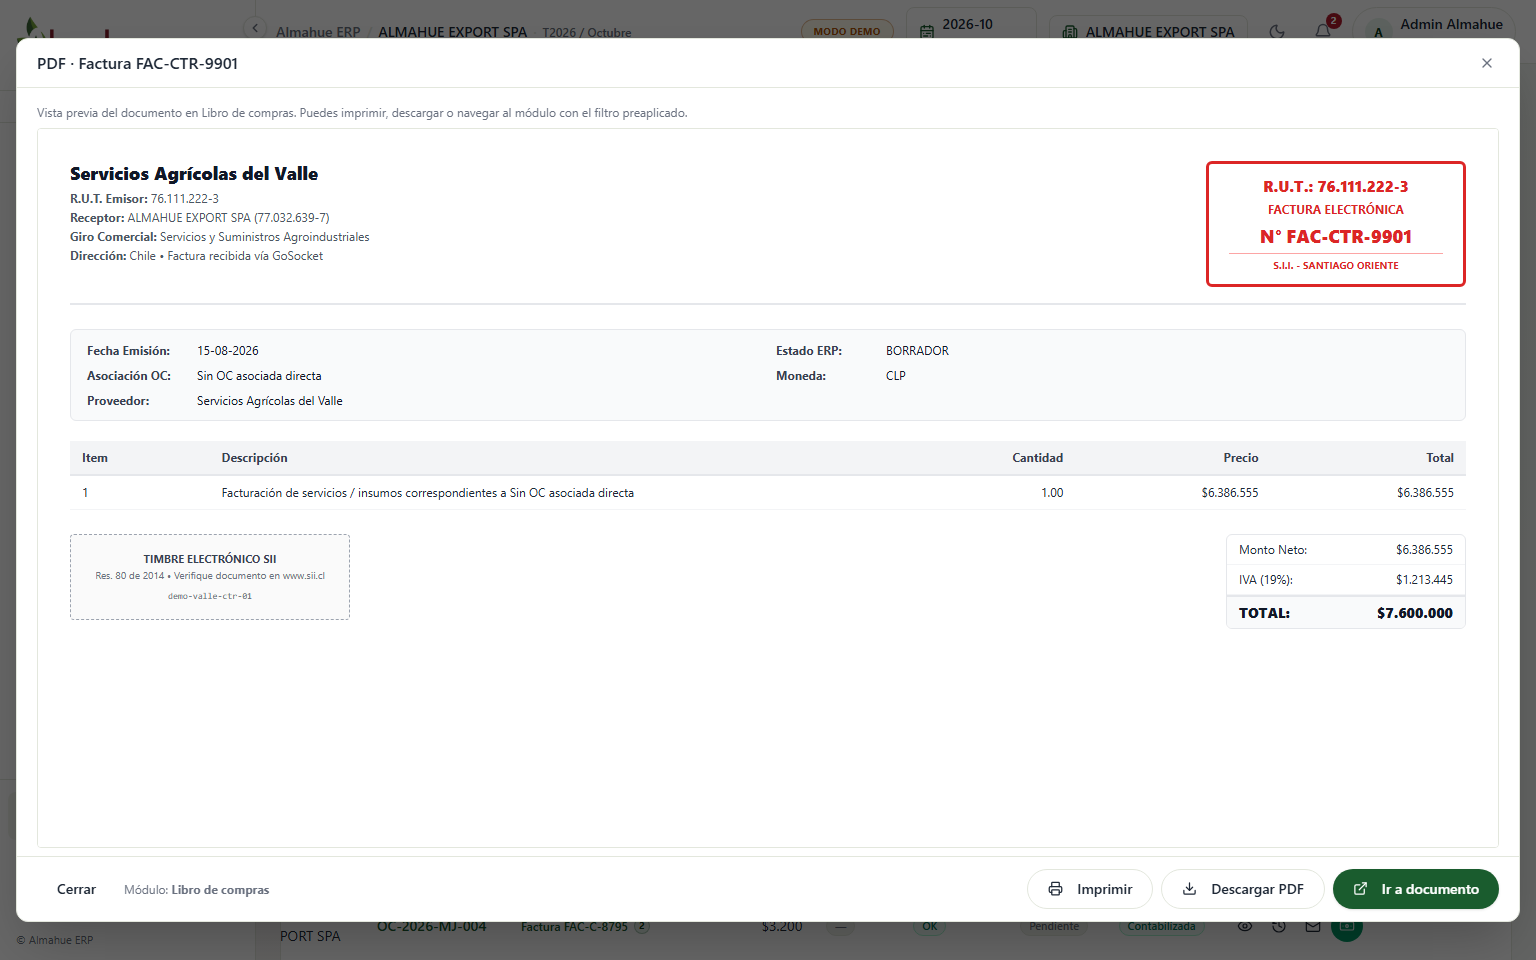
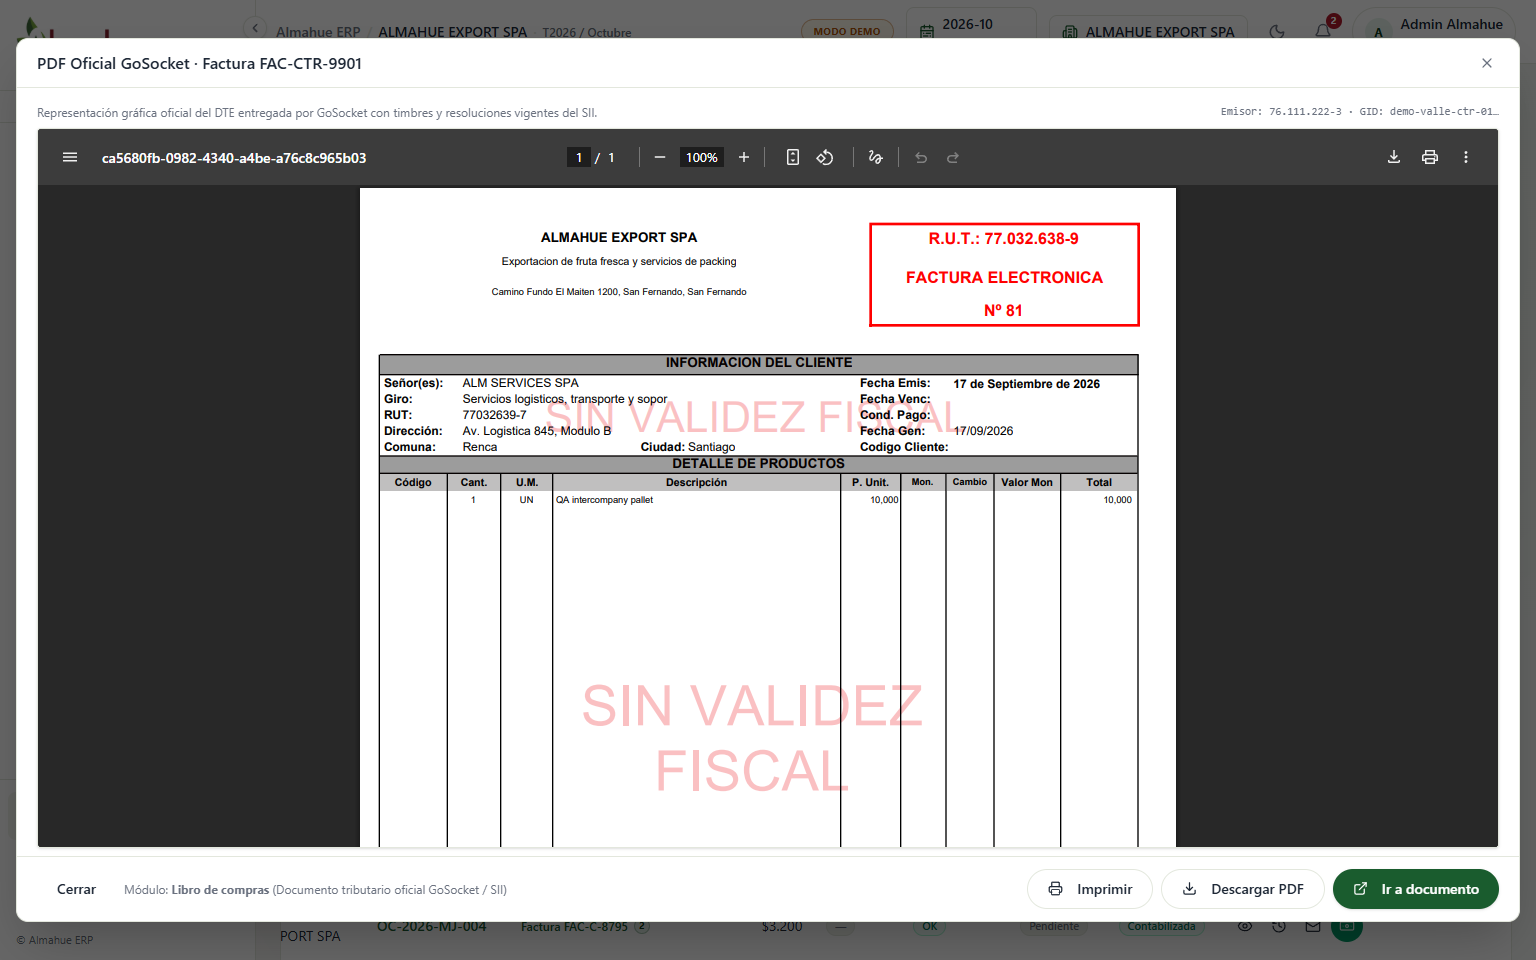
docs(recorrido): update steps 11 and 12 with authentic GoSocket PDF and accurate bimoneda aging pins

diff --git a/docs/sesiones/compras-mejoras-modulo2-2026-10-30/recorrido.html b/docs/sesiones/compras-mejoras-modulo2-2026-10-30/recorrido.html
@@ -619,12 +619,12 @@
         mod: "Compras / MJ",
         modCode: "compras",
         cls: "compras",
-        menu: "Libro de compras · Bimoneda",
+        menu: "Tesorería · Nómina Semanal y Aging Bimoneda",
         titulo: "Facturas Bimoneda y Desglose de Aging con IVA al día 20 (F29) (Punto 4 MJ)",
         img: "img/step-e-3-compras-libro-bimoneda.png",
         pins: [
-          { x: 55, y: 38, label: "Facturas bimoneda: desglose de compromisos comerciales y fiscales" },
-          { x: 75, y: 38, label: "Aging impositivo: vencimiento de IVA al día 20 del mes siguiente (F29)" }
+          { x: 26, y: 80, label: "Facturas bimoneda: desglose de compromisos comerciales y fiscales (Neto en USD)" },
+          { x: 58, y: 86, label: "Aging impositivo: vencimiento de IVA al día 20 del mes siguiente (F29)" }
         ],
         regla: "Las facturas en moneda extranjera (USD) desglosan su Neto en USD y su IVA en pesos chilenos (CLP). El Neto vence según la condición comercial pactada y el IVA vence invariablemente el día 20 del mes siguiente para la declaración y pago del F29.",
         origen: "Correo María Jesús (29/10/2026, Punto 4) · Regla impositiva chilena",
@@ -640,7 +640,7 @@
         titulo: "Barra de Porcentaje de Cobertura en Facturas con Proformas e Insumos",
         img: "img/step-e-6-compras-libro-cobertura.png",
         pins: [
-          { x: 42, y: 76, label: "Barra porcentual de cobertura de facturas con proformas e insumos (63% cubierto)" }
+          { x: 52, y: 78, label: "Barra porcentual de cobertura de facturas con proformas e insumos (63% cubierto)" }
         ],
         regla: "Muestra una barra de progreso porcentual en la lista de facturas del Libro de Compras que indica cuánto del total de la factura está cubierto por proformas de contratistas o recepciones de insumos asociadas.",
         origen: "Solicitud del usuario en sesión 30/10/2026 (Brecha 1)",
